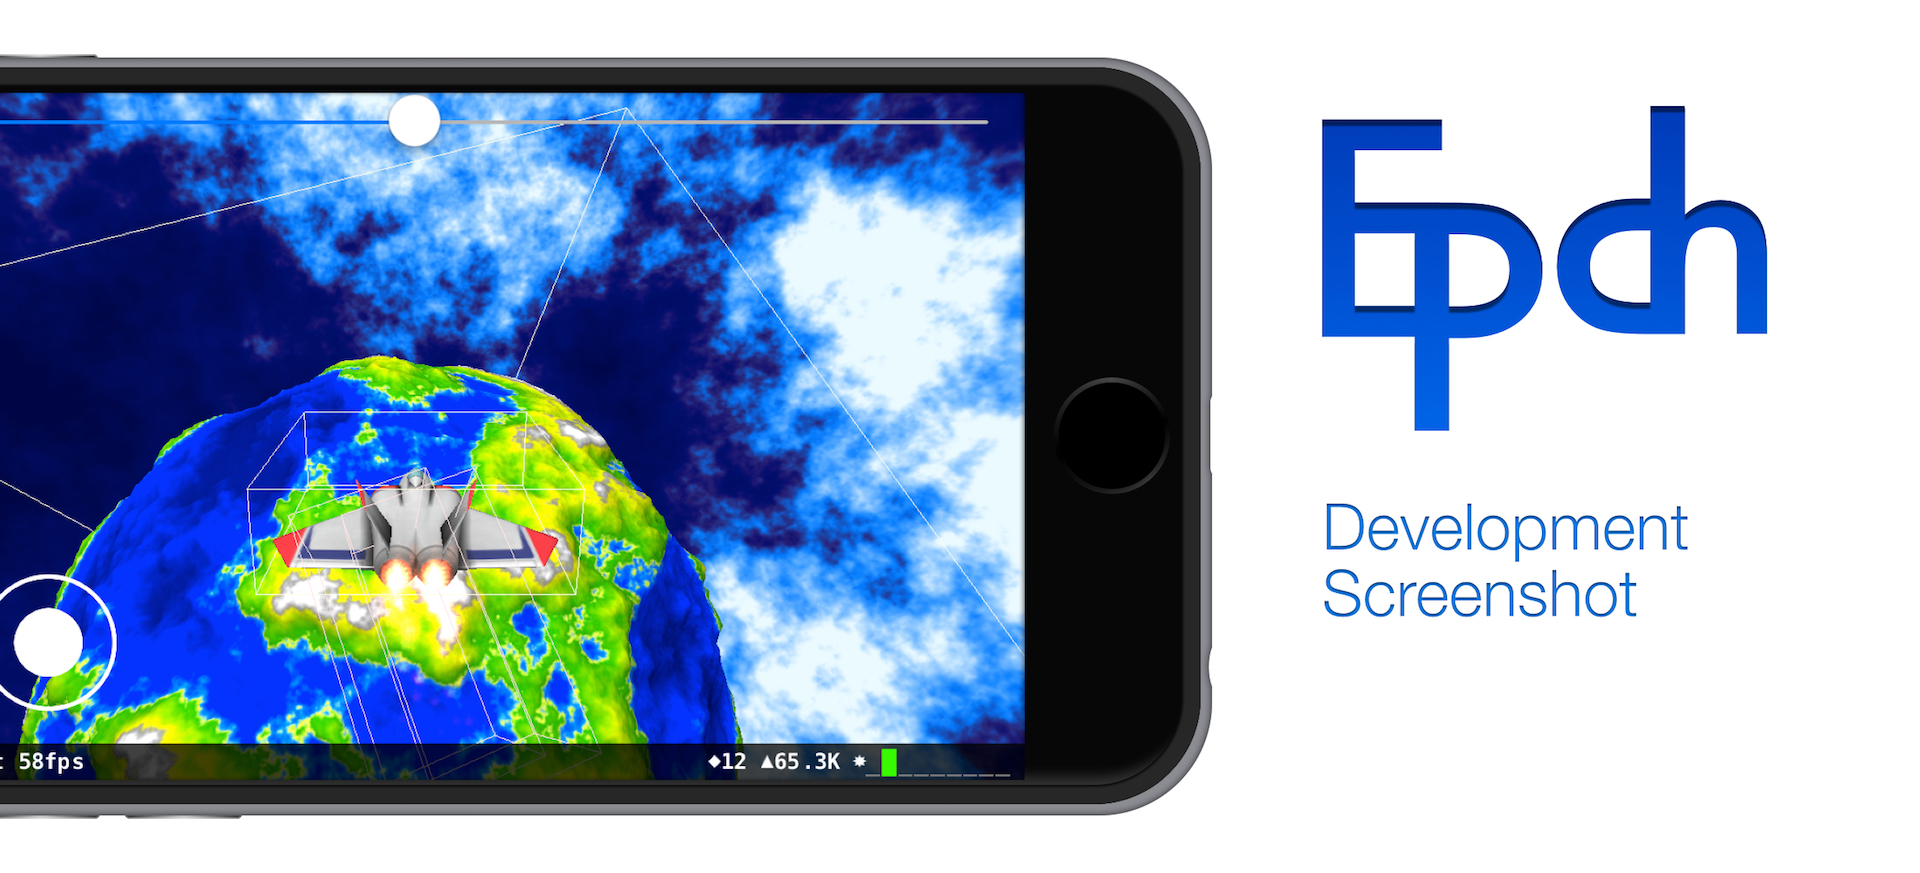
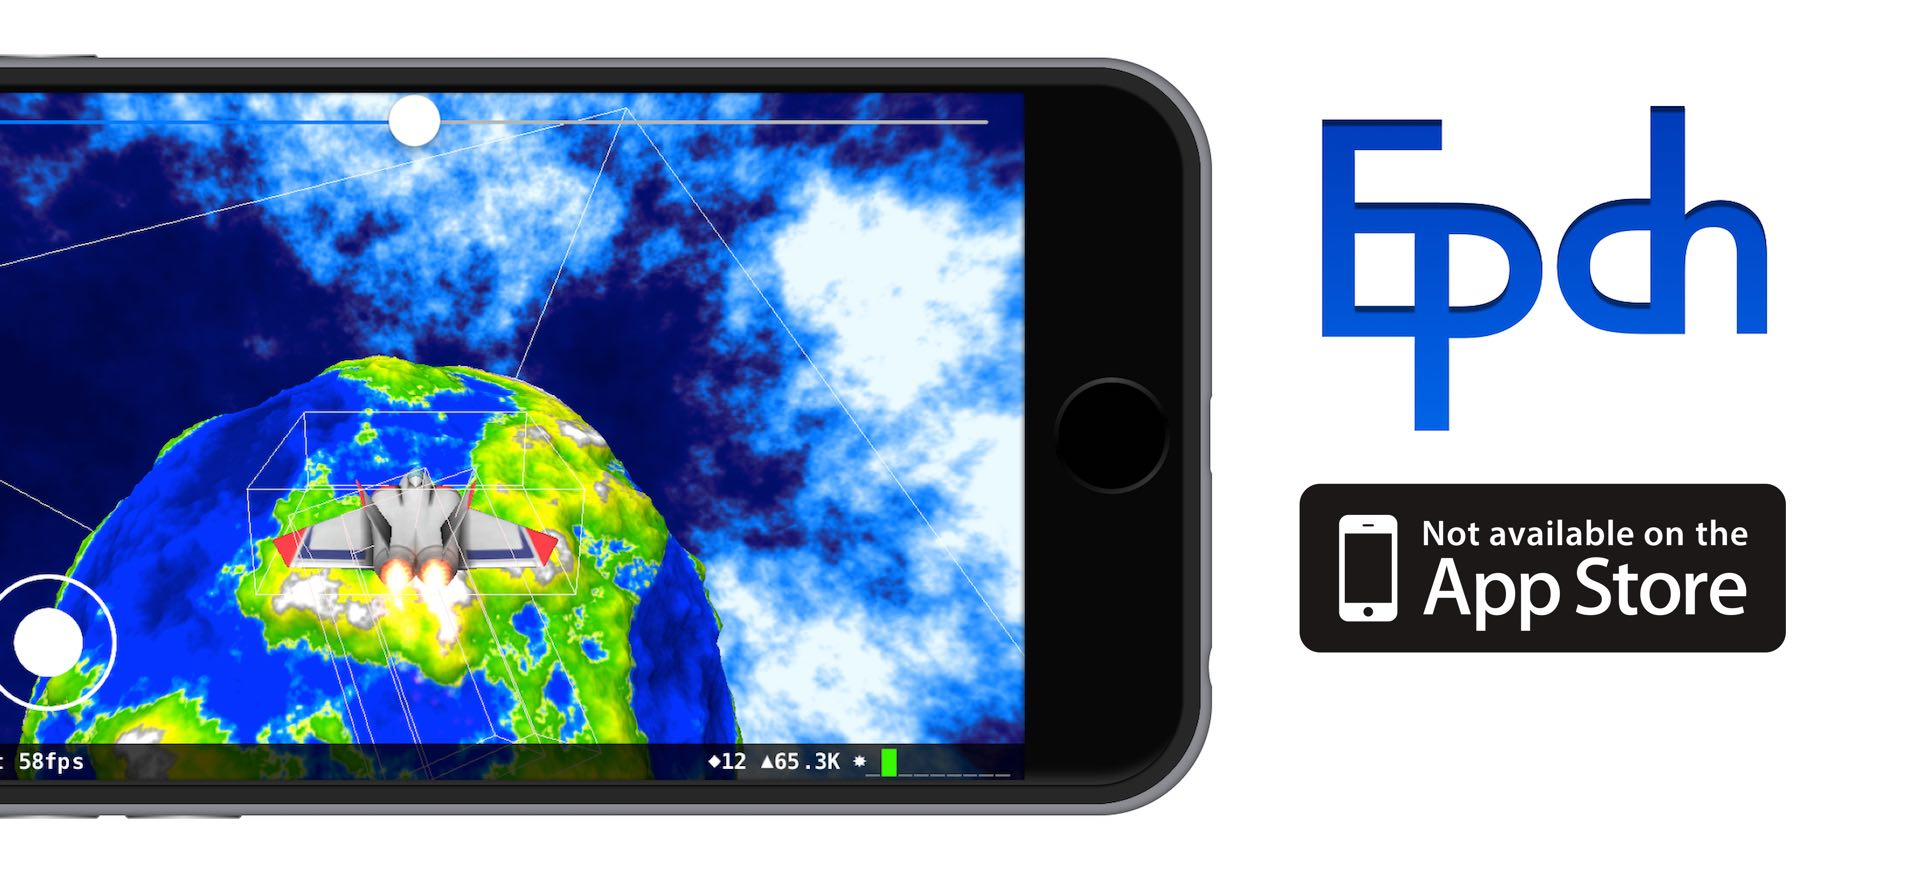
This Project will be delayed to 4.15

diff --git a/EpochRemastered/AppDelegate.m b/EpochRemastered/AppDelegate.m
@@ -54,6 +54,9 @@ performActionForShortcutItem:(UIApplicationShortcutItem *)shortcutItem
     {
         
     }
+    
+    //[[UIApplication sharedApplication] performSelector:@selector(suspend)];
+    
 }
 
 @end
